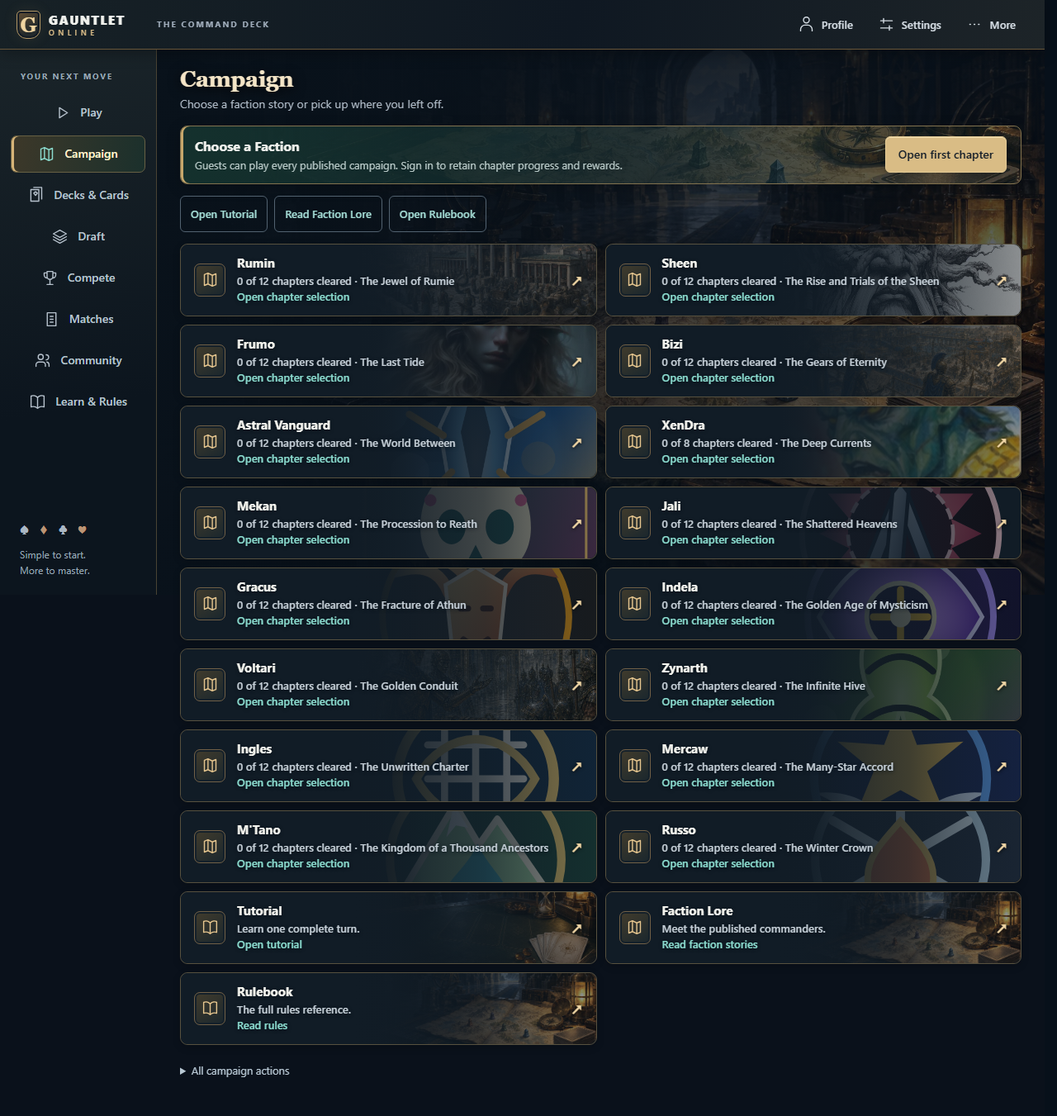
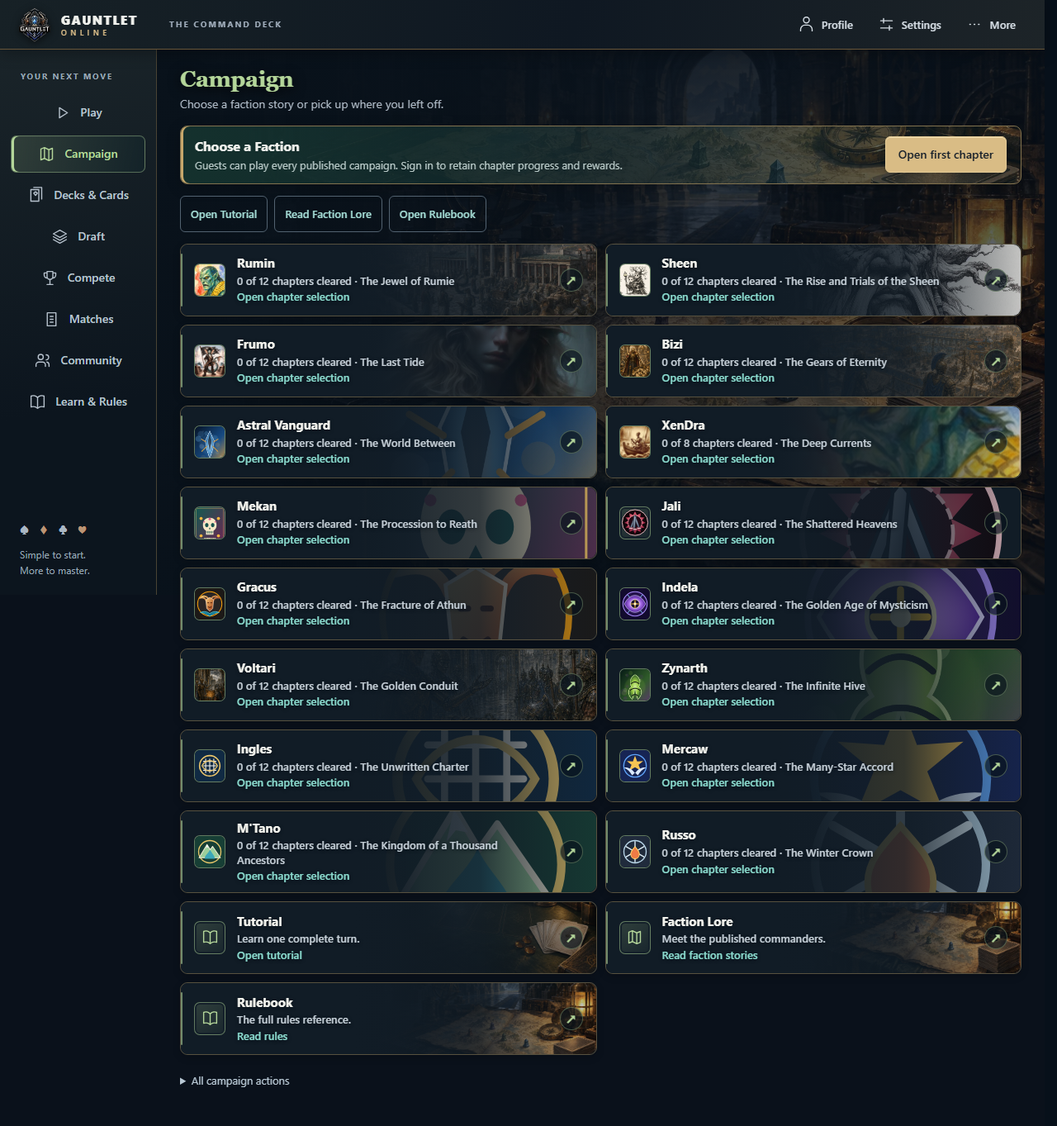
Polish Command Deck branding and contextual player artwork

diff --git a/client/src/navigation/PlayerShell.css b/client/src/navigation/PlayerShell.css
@@ -9,6 +9,8 @@
   --cd-muted: #afbac6;
   --cd-gold: #dec08b;
   --cd-teal: #8cddd0;
+  --cd-accent: #e3c28a;
+  --cd-accent-rgb: 227, 194, 138;
   min-height: 100vh;
   min-height: 100dvh;
   color: var(--cd-text);
@@ -17,6 +19,13 @@
   font-size: 15px;
   line-height: 1.45;
 }
+.cd-shell[data-destination="campaign"], .cd-action-tile[data-tone="campaign"] { --cd-accent: #b4d69a; --cd-accent-rgb: 180, 214, 154; }
+.cd-shell[data-destination="decks"], .cd-action-tile[data-tone="decks"] { --cd-accent: #9edbcb; --cd-accent-rgb: 158, 219, 203; }
+.cd-shell[data-destination="draft"], .cd-action-tile[data-tone="draft"] { --cd-accent: #c6b5eb; --cd-accent-rgb: 198, 181, 235; }
+.cd-shell[data-destination="compete"], .cd-action-tile[data-tone="compete"] { --cd-accent: #edb395; --cd-accent-rgb: 237, 179, 149; }
+.cd-shell[data-destination="matches"], .cd-action-tile[data-tone="matches"] { --cd-accent: #a3c8e7; --cd-accent-rgb: 163, 200, 231; }
+.cd-shell[data-destination="community"], .cd-action-tile[data-tone="community"] { --cd-accent: #9dd6dc; --cd-accent-rgb: 157, 214, 220; }
+.cd-shell[data-destination="profile"], .cd-action-tile[data-tone="profile"] { --cd-accent: #d1bee8; --cd-accent-rgb: 209, 190, 232; }
 .cd-environment { position: fixed; inset: 60px 0 0 190px; z-index: -1; pointer-events: none; overflow: hidden; background: #0a111b; }
 .cd-environment img { width: 100%; height: 100%; object-fit: cover; object-position: center; opacity: .66; }
 .cd-environment::after { content: ""; position: absolute; inset: 0; background: linear-gradient(90deg, #09121bf2, #09121ba6 48%, #09121b38), linear-gradient(#08111bc9, transparent 55%, #08111b8c); }
@@ -35,7 +44,7 @@
 .cd-topbar { grid-column: 1 / -1; display: flex; align-items: center; gap: 24px; position: sticky; top: 0; z-index: 40; height: 60px; padding: 0 24px 0 20px; background: linear-gradient(100deg, #172126, #0f1822 55%, #1d2428); border-bottom: 1px solid #68563a; box-shadow: 0 3px 20px #0005; }
 .cd-brand { display: flex; align-items: center; gap: 10px; flex-shrink: 0; border: 0; padding: 0; color: var(--cd-text); background: none; font-size: 15px; font-weight: 800; letter-spacing: 1.5px; text-align: left; }
 .cd-brand small { display: block; margin-top: -2px; color: var(--cd-gold); font-size: 9px; font-weight: 600; letter-spacing: 4.5px; }
-.cd-brand-mark { display: grid; place-items: center; width: 29px; height: 34px; border: 1px solid #b49865; border-radius: 5px 5px 12px 12px; color: #f0d5a1; background: linear-gradient(145deg, #665034, #242a2b 65%); box-shadow: inset 0 0 0 2px #121b25, 0 0 18px #c7a1661c; font-family: Georgia, serif; font-size: 25px; letter-spacing: 0; }
+.cd-brand-crest { width: 44px; height: 44px; object-fit: contain; flex-shrink: 0; filter: drop-shadow(0 2px 5px #0008); }
 .cd-topbar-caption { margin-left: 14px; color: #a1aebc; font-size: 10px; font-weight: 700; letter-spacing: 2px; }
 .cd-header-actions { display: flex; align-items: center; justify-content: flex-end; gap: 8px; margin-left: auto; min-width: 0; }
 .cd-header-button { display: inline-flex; align-items: center; justify-content: center; gap: 8px; min-height: 40px; padding: 8px 10px; border: 1px solid transparent; border-radius: 6px; color: #d5dde4; background: transparent; font-size: 13px; }
@@ -47,8 +56,8 @@
 .cd-rail nav { display: grid; gap: 5px; }
 .cd-nav-button { display: flex; align-items: center; gap: 11px; width: 100%; min-height: 45px; padding: 10px 11px; border: 1px solid transparent; border-radius: 7px; color: #b7c2cd; background: transparent; text-align: left; font-size: 14px; font-weight: 550; }
 .cd-nav-button:hover { color: var(--cd-text); background: #1a2733; }
-.cd-nav-button.is-current { border-color: #676044; color: #fff0cc; background: linear-gradient(100deg, #3d3829, #1b302c); box-shadow: inset 3px 0 #d7b478; }
-.cd-nav-button.is-current .cd-icon { color: var(--cd-teal); }
+.cd-nav-button.is-current { border-color: rgba(var(--cd-accent-rgb), .4); color: var(--cd-accent); background: linear-gradient(100deg, rgba(var(--cd-accent-rgb), .17), #142329); box-shadow: inset 3px 0 var(--cd-accent), inset 0 1px #ffffff08; }
+.cd-nav-button.is-current .cd-icon { color: var(--cd-accent); }
 .cd-rail-footer { margin-top: auto; padding: 35px 11px 0; color: #9aa8b5; font-size: 12px; }
 .cd-rail-footer p { margin: 9px 0 0; line-height: 1.6; }
 .cd-rail-suits { color: #aab7c3; font-size: 16px; letter-spacing: 4px; }
@@ -58,29 +67,36 @@
 .cd-page-header { display: flex; align-items: center; justify-content: space-between; gap: 16px; margin: 0 0 18px; }
 .cd-page-header h1 { margin: 0 0 4px; color: #f4e5c7; font-family: Georgia, "Times New Roman", serif; font-size: 27px; font-weight: 600; letter-spacing: -.4px; line-height: 1.2; text-shadow: 0 2px 15px #000; }
 .cd-page-header h1:focus { outline: none; }
+.cd-page-header h1 { color: var(--cd-accent); }
 .cd-page-header p { margin: 0; color: var(--cd-muted); font-size: 14px; }
 .cd-eyebrow { color: var(--cd-gold); font-size: 10px; font-weight: 750; letter-spacing: 1.7px; overflow-wrap: anywhere; }
 .cd-shell .cd-authored-detail { margin: 5px 0 0; color: var(--cd-muted); font-size: 12px; }
 .cd-grid { display: grid; grid-template-columns: repeat(2, minmax(0, 1fr)); gap: 10px; }
 .cd-action-tile { position: relative; isolation: isolate; display: flex; align-items: center; gap: 14px; width: 100%; min-width: 0; min-height: 91px; height: 100%; padding: 13px 16px; border: 1px solid #57513f; border-radius: 9px; background: var(--cd-surface); box-shadow: inset 0 1px #dac18a12, 0 3px 10px #0003; color: var(--cd-text); text-align: left; transition: border-color .15s ease, box-shadow .15s ease; }
-.cd-action-tile:hover:not(:disabled) { border-color: #c8a76c; background: #192c35; box-shadow: inset 0 1px #f5d99b33, 0 4px 18px #0005; }
+.cd-action-tile::before { content: ""; position: absolute; inset: 11px auto 11px 0; width: 2px; background: var(--cd-accent); border-radius: 2px; opacity: .6; pointer-events: none; }
+.cd-action-tile:hover:not(:disabled) { border-color: var(--cd-accent); background: #192c35; box-shadow: inset 0 1px #f5d99b33, 0 4px 18px #0005, 0 0 15px rgba(var(--cd-accent-rgb), .08); }
 .cd-action-art { position: absolute; inset: 0; z-index: -1; overflow: hidden; border-radius: inherit; pointer-events: none; background: #111c26; }
 .cd-action-art img { position: absolute; right: 0; top: 0; height: 100%; width: 58%; object-fit: cover; object-position: center 42%; mask-image: linear-gradient(90deg, transparent, #000 28%); transition: transform .25s ease; }
-.cd-action-art::after { content: ""; position: absolute; inset: 0; background: linear-gradient(90deg, #111c26 25%, #111c26f5 47%, #111c26cc 73%, #111c2673); }
+.cd-action-art::after { content: ""; position: absolute; inset: 0; background: linear-gradient(90deg, #111c26 25%, #111c26f5 47%, #111c26d9 72%, #111c2680 87%, #111c2633); }
 .cd-action-tile:hover .cd-action-art img { transform: scale(1.04); }
 .cd-action-tile.has-artwork .cd-action-copy { text-shadow: 0 1px 4px #071018; }
 .cd-action-tile.has-artwork .cd-action-description { color: #c5cfd7; }
 .cd-action-tile:active:not(:disabled) { background: #203a40; }
-.cd-action-icon { display: grid; place-items: center; flex-shrink: 0; width: 38px; height: 40px; border: 1px solid #716047; border-radius: 7px; background: linear-gradient(145deg, #423c2c, #19262d); box-shadow: inset 0 0 0 2px #14202a; color: #e6c68f; font-size: 20px; }
+.cd-action-icon { display: grid; place-items: center; flex-shrink: 0; width: 38px; height: 40px; border: 1px solid rgba(var(--cd-accent-rgb), .45); border-radius: 7px; background: linear-gradient(145deg, rgba(var(--cd-accent-rgb), .19), #19262d); box-shadow: inset 0 0 0 2px #14202a; color: var(--cd-accent); font-size: 20px; overflow: hidden; }
+.cd-action-icon img { width: 100%; height: 100%; object-fit: cover; object-position: center 30%; }
 .cd-action-copy { display: grid; gap: 2px; min-width: 0; }
 .cd-action-title { color: #f3f3ed; font-size: 15px; font-weight: 650; line-height: 1.3; }
 .cd-action-description { color: #b4c0ca; font-size: 13px; line-height: 1.35; overflow-wrap: anywhere; }
 .cd-action-outcome { color: var(--cd-teal); font-size: 13px; line-height: 1.35; }
-.cd-action-arrow { flex-shrink: 0; margin-left: auto; color: #f1d7a6; font-size: 19px; text-shadow: 0 1px 4px #000; }
+.cd-action-arrow { display: grid; place-items: center; flex-shrink: 0; width: 28px; height: 28px; margin-left: auto; border: 1px solid rgba(var(--cd-accent-rgb), .35); border-radius: 50%; background: #08121ba8; color: var(--cd-accent); font-size: 17px; }
 .cd-context { display: flex; align-items: center; justify-content: space-between; flex-wrap: wrap; gap: 12px; min-height: 70px; margin-bottom: 14px; padding: 12px 17px; border: 1px solid #82724e; border-radius: 9px; background-color: #162a2a; background-image: linear-gradient(90deg, #15332ff5, #10232ae6 55%, #10232a85), var(--cd-scene); background-size: cover; background-position: center 58%; box-shadow: inset 3px 0 #c7a76b, 0 4px 18px #0003; }
 .cd-context h2, .cd-context h3 { margin: 0 0 3px; font-size: 16px; font-weight: 650; }
 .cd-context p { margin: 0; color: #b8c9c7; font-size: 13px; }
 .cd-context > div { min-width: 0; }
+.cd-context.has-context-art { position: relative; isolation: isolate; background: #142729; border-color: rgba(var(--cd-accent-rgb), .6); box-shadow: inset 3px 0 var(--cd-accent), inset 0 1px #ffffff14, 0 4px 18px #0003; }
+.cd-context-art { position: absolute; inset: 0; z-index: -1; border-radius: inherit; overflow: hidden; pointer-events: none; }
+.cd-context-art img { position: absolute; right: 0; width: 62%; height: 100%; object-fit: cover; object-position: 65% 60%; }
+.cd-context-art::after { content: ""; position: absolute; inset: 0; background: linear-gradient(90deg, #15312e 10%, #15312ef5 35%, #102329c7 64%, #10232959); }
 .cd-utilities { display: grid; grid-template-columns: repeat(2, minmax(0, 1fr)); gap: 10px; margin-top: 14px; }
 .cd-panel { min-width: 0; padding: 16px; border: 1px solid var(--cd-border); border-radius: 9px; background: var(--cd-surface); }
 .cd-panel h2, .cd-panel h3 { margin: 0 0 7px; font-size: 16px; }
@@ -96,6 +112,7 @@
 .cd-button-primary { background: #d9bc85; color: #17202a; border-color: #e2c994; }
 .cd-button-primary:hover:not(:disabled) { background: #eed7a9; border-color: #f1dcaf; }
 .cd-button-primary { box-shadow: inset 0 1px #fff3cc88, 0 3px 12px #0003; }
+.cd-panel { border-color: rgba(var(--cd-accent-rgb), .25); box-shadow: inset 0 1px #ffffff09, 0 3px 12px #0002; }
 .cd-button-quiet { border-color: transparent; color: var(--cd-teal); background: none; font-weight: 500; }
 .cd-button-quiet:hover { background: #19302f; }
 .cd-back-link { justify-content: flex-start; padding: 7px 0; margin-bottom: 13px; border: 0; color: var(--cd-teal); background: none; }
@@ -192,7 +209,7 @@
   .cd-shell *, .cd-shell *::before, .cd-shell *::after { animation: none; transition: none; scroll-behavior: auto; }
 }
 @media (forced-colors: active) {
-  .cd-environment, .cd-action-art { display: none; }
+  .cd-environment, .cd-action-art, .cd-context-art, .cd-action-tile::before { display: none; }
   .cd-context { background-image: none; }
   .cd-nav-button.is-current { outline: 2px solid Highlight; outline-offset: -3px; }
 }

diff --git a/client/src/navigation/PlayerMenus.jsx b/client/src/navigation/PlayerMenus.jsx
@@ -5,6 +5,9 @@ import SetupFrame from "./SetupFrame";
 import { LayoutGrid, PageLayoutSettings, usePlayerLayout } from "./PlayerLayoutStudio";
 import { getDestination } from "./destinations";
 import { getModePresentation } from "./modePresentation";
+import { resolveVisualAsset } from "../GauntletVisuals";
+import { getDeckFeaturedArt } from "../contentArt";
+import { JOURNEY_ART, MENU_SCENES, STANDARD_DECK_ART, TUTORIAL_ART } from "./menuArtwork";
 import "./PlayerMenus.css";
 
 function ActionDirectory({ title, items }) {
@@ -112,6 +115,12 @@ export default function PlayerMenus({ route, onNavigate, account, ownerAuthorize
   const customizable = !focused;
   const nav = (destination, nextView = "") => onNavigate(destination, nextView);
   const profile = () => nav("profile");
+  const continuingCampaign = !state.hasSavedRoom && !actions.roomCode && state.completedChapters > 0 && state.nextCampaign;
+  const nextActionArt = state.hasSavedRoom ? MENU_SCENES.play : actions.roomCode ? MENU_SCENES.matches
+    : continuingCampaign ? state.nextCampaign.chapter.image || state.nextCampaign.campaign?.coverImage || JOURNEY_ART : TUTORIAL_ART;
+  const deckCards = getDeckFeaturedArt(state.deck, account?.collection?.collectorCatalog || []);
+  const deckFaction = content.factions?.find((faction) => faction.id === state.deck?.factionId);
+  const deckArt = deckCards.length ? deckCards : deckFaction?.cardImage ? [deckFaction.cardImage] : STANDARD_DECK_ART;
   const draftPresentation = getModePresentation("draft", content.modeMetadata, getDestination("draft"));
   const action = (id, title, description, outcome, onClick, icon) => ({ id, title, description, outcome, onClick, icon });
   const playItems = [
@@ -132,14 +141,14 @@ export default function PlayerMenus({ route, onNavigate, account, ownerAuthorize
   </SetupFrame>;
   else if (page === "play" && view === "practice") body = <SetupFrame {...getModePresentation("practice", content.modeMetadata, { title: "Practice", description: "Start with core rules, or choose a faction in the AI lobby." })} onBack={() => nav("play")}><div className="cd-grid">{playItems.slice(0, 2).map((item) => <ActionTile key={item.id} {...item} />)}</div></SetupFrame>;
   else if (page === "play") body = <>
-    <section className="cd-context" aria-label="Suggested next action"><div><span className="cd-eyebrow">{state.hasSavedRoom ? "Your table is waiting" : actions.roomCode ? "Table invitation" : state.completedChapters > 0 && state.nextCampaign ? "Continue your story" : "Ready when you are"}</span>
+    <section className="cd-context has-context-art" aria-label="Suggested next action"><span className="cd-context-art" aria-hidden="true"><img src={resolveVisualAsset(nextActionArt)} alt="" decoding="async" draggable={false} /></span><div><span className="cd-eyebrow">{state.hasSavedRoom ? "Your table is waiting" : actions.roomCode ? "Table invitation" : state.completedChapters > 0 && state.nextCampaign ? "Continue your story" : "Ready when you are"}</span>
       <h2>{state.hasSavedRoom ? `Resume room ${state.savedRoomCode}` : actions.roomCode ? `Invitation to ${actions.roomCode}` : state.completedChapters > 0 && state.nextCampaign ? state.nextCampaign.chapter.title : "Your first match is one click away."}</h2>
       <p>{state.hasSavedRoom ? "Return to your saved player seat or spectator view." : actions.roomCode ? "Choose to join as a player or watch the table." : state.completedChapters > 0 && state.nextCampaign ? "Open your next chapter and its briefing." : "A standard 52-card deck. Learn the core game against AI."}</p></div>
       <button className="cd-button-primary" onClick={state.hasSavedRoom ? actions.resume : actions.roomCode ? () => nav("play", "tables") : state.completedChapters > 0 && state.nextCampaign ? () => actions.campaign(state.nextCampaign.factionId, state.nextCampaign.chapter.id) : actions.basicAi}>{state.hasSavedRoom ? "Resume Match" : actions.roomCode ? "Open Invitation" : state.completedChapters > 0 && state.nextCampaign ? "Continue Campaign" : "Start Basic vs AI"}</button>
     </section>
     <div className="cd-section-line"><h2>Choose your next game</h2><button type="button" onClick={() => nav("play", "tables")}>Private tables & Free-for-All →</button></div>
     <Tiles pageId="play" items={playItems} utilities={[
-      { id: "active-deck", label: "Active Deck", content: <section className="cd-utility"><div><span>Active deck</span><strong>{state.deck?.name || "Standard 52-card deck"}</strong><small>{state.deck ? `${state.deck.factionName || state.deck.factionId} · Constructed` : "Ready to play. Customization is optional."}</small></div><button onClick={() => actions.collection("decks")}>{state.deck ? "Edit Deck" : "Open Decks"}</button></section> },
+      { id: "active-deck", label: "Active Deck", content: <section className="cd-utility cd-active-deck"><span className="cd-deck-summary"><span className="cd-deck-fan" aria-hidden="true">{deckArt.map((art, index) => <img key={`${art}-${index}`} src={resolveVisualAsset(art)} alt="" loading="lazy" decoding="async" draggable={false} />)}</span><span className="cd-deck-copy"><span>Active deck</span><strong>{state.deck?.name || "Standard 52-card deck"}</strong><small>{state.deck ? `${state.deck.factionName || state.deck.factionId} · Constructed` : "Ready to play. Customization is optional."}</small></span></span><button onClick={() => actions.collection("decks")}>{state.deck ? "Edit Deck" : "Open Decks"}</button></section> },
       { id: "recent-matches", label: "Recent Matches", content: slots.recentMatch || <section className="cd-utility"><div><span>Match records</span><strong>Review your games</strong><small>Results and available replays, including device saves.</small></div><button onClick={() => nav("matches")}>Open Matches</button></section> },
     ]} />
   </>;
@@ -149,7 +158,8 @@ export default function PlayerMenus({ route, onNavigate, account, ownerAuthorize
     const items = Object.entries(content.campaigns || {}).map(([id, campaign]) => {
       const completed = account?.progression?.campaign?.[id] || [];
       const faction = content.factions?.find((entry) => entry.id === id);
-      return { ...action(`faction-${id}`, campaign.factionName || id, `${completed.length} of ${campaign.chapters.length} chapters cleared · ${campaign.commanderName}`, "Open chapter selection", () => actions.campaign(id), "campaign"), artwork: campaign.coverImage || faction?.commander?.image || faction?.cardImage };
+      const emblem = faction?.cardImage || faction?.commander?.image;
+      return { ...action(`faction-${id}`, campaign.factionName || id, `${completed.length} of ${campaign.chapters.length} chapters cleared · ${campaign.commanderName}`, "Open chapter selection", () => actions.campaign(id), emblem ? <img src={resolveVisualAsset(emblem)} alt="" loading="lazy" decoding="async" draggable={false} /> : "campaign"), artwork: campaign.coverImage || faction?.commander?.image || faction?.cardImage };
     });
     items.push(action("tutorial", "Tutorial", "Learn one complete turn.", "Open tutorial", actions.tutorial, "learn"), action("lore", "Faction Lore", "Meet the published commanders.", "Read faction stories", () => nav("campaign", "lore"), "campaign"), action("rulebook", "Rulebook", "The full rules reference.", "Read rules", () => nav("learn", "rulebook"), "learn"));
     body = <><section className="cd-context"><div>{campaignPresentation.eyebrow && <span className="cd-eyebrow">{campaignPresentation.eyebrow}</span>}<h2>{campaignPresentation.title}</h2><p>{campaignPresentation.description && <>{campaignPresentation.description} </>}{account ? `${state.completedChapters} chapters cleared. Progress and earned packs stay with your account.` : "Guests can play every published campaign. Sign in to retain chapter progress and rewards."}</p>{campaignPresentation.detail && <p className="cd-authored-detail">{campaignPresentation.detail}</p>}</div>{state.nextCampaign && <button className="cd-button-primary" onClick={() => actions.campaign(state.nextCampaign.factionId, state.nextCampaign.chapter.id)}>{state.completedChapters ? "Continue next chapter" : "Open first chapter"}</button>}</section>

diff --git a/client/src/navigation/ActionTile.jsx b/client/src/navigation/ActionTile.jsx
@@ -1,19 +1,20 @@
 import React from "react";
 import { DestinationIcon } from "./PlayerShell";
 import { resolveVisualAsset } from "../GauntletVisuals";
-import { ACTION_ART } from "./menuArtwork";
+import { ACTION_ART, ACTION_ART_POSITIONS } from "./menuArtwork";
 
 /** The outcome stays visible: players should know what the button does before clicking. */
-export default function ActionTile({ id, title, description, outcome, onClick, disabled = false, icon, artwork = ACTION_ART[id], className = "" }) {
+export default function ActionTile({ id, title, description, outcome, onClick, disabled = false, icon, artwork = ACTION_ART[id], tone = typeof icon === "string" ? icon : "campaign", className = "" }) {
   return (
     <button
       type="button"
       className={`cd-action-tile${artwork ? " has-artwork" : ""} ${className}`.trim()}
       data-action-id={id}
+      data-tone={tone}
       onClick={onClick}
       disabled={disabled}
     >
-      {artwork && <span className="cd-action-art" aria-hidden="true"><img src={resolveVisualAsset(artwork)} alt="" loading="lazy" decoding="async" draggable={false} /></span>}
+      {artwork && <span className="cd-action-art" aria-hidden="true"><img src={resolveVisualAsset(artwork)} style={{ objectPosition: ACTION_ART_POSITIONS[id] }} alt="" loading="lazy" decoding="async" draggable={false} /></span>}
       {icon && <span className="cd-action-icon" aria-hidden="true">{typeof icon === "string" ? <DestinationIcon name={icon} /> : icon}</span>}
       <span className="cd-action-copy">
         <span className="cd-action-title">{title}</span>

diff --git a/client/src/navigation/PlayerShell.jsx b/client/src/navigation/PlayerShell.jsx
@@ -1,7 +1,7 @@
 import React, { useEffect, useId, useRef, useState } from "react";
 import { getDestination, PRIMARY_DESTINATIONS, MOBILE_DESTINATIONS, MORE_DESTINATIONS } from "./destinations";
 import { resolveVisualAsset } from "../GauntletVisuals";
-import { MENU_SCENES } from "./menuArtwork";
+import { GAUNTLET_CREST, MENU_SCENES } from "./menuArtwork";
 import "./PlayerShell.css";
 
 const ICON_PATHS = {
@@ -134,7 +134,7 @@ export default function PlayerShell({ destination = "play", navigationKey = dest
       <div className="cd-shell-surface" inert={moreOpen ? true : undefined} aria-hidden={moreOpen ? true : undefined}>
         <a className="cd-skip-link" href={`#${mainId}`}>Skip to page content</a>
         <header className="cd-topbar">
-          <button className="cd-brand" type="button" onClick={() => onNavigate("play")} aria-label="Gauntlet Online — open Play"><span className="cd-brand-mark" aria-hidden="true">G</span><span>GAUNTLET <small>ONLINE</small></span></button>
+          <button className="cd-brand" type="button" onClick={() => onNavigate("play")} aria-label="Gauntlet Online — open Play"><img className="cd-brand-crest" src={resolveVisualAsset(GAUNTLET_CREST)} alt="" width="44" height="44" decoding="async" draggable={false} /><span>GAUNTLET <small>ONLINE</small></span></button>
           <span className="cd-topbar-caption">THE COMMAND DECK</span>
           <div className="cd-header-actions">
             {editing && <button type="button" className="cd-button cd-button-primary cd-done-editing" onClick={onDoneEditing}>Done Editing</button>}

diff --git a/client/src/navigation/PlayerMenus.css b/client/src/navigation/PlayerMenus.css
@@ -10,6 +10,14 @@
 .cd-utility span,.cd-utility small { font-size: 13px; color: #bccbd5; }
 .cd-utility strong { font-size: 14px; }
 .cd-utility button { flex-shrink: 0; font-size: 13px; }
+.cd-deck-summary { display: flex; align-items: center; gap: 15px; min-width: 0; }
+.cd-deck-copy { display: grid; gap: 3px; min-width: 0; }
+.cd-deck-copy strong { color: var(--cd-text); }
+.cd-deck-fan { position: relative; display: block; width: 62px; height: 54px; flex: 0 0 62px; }
+.cd-deck-fan img { position: absolute; left: 13px; top: 0; width: 38px; height: 54px; border: 1px solid #b19a6b; border-radius: 4px; object-fit: cover; box-shadow: 0 2px 6px #0009; }
+.cd-deck-fan img:nth-child(1):not(:only-child) { transform: translateX(-9px) rotate(-12deg); }
+.cd-deck-fan img:nth-child(3) { transform: translateX(9px) rotate(12deg); }
+.cd-active-deck { background: linear-gradient(120deg, #1c302f, #131f2a 75%); border-color: #49615a; }
 .cd-setup-columns { display: grid; grid-template-columns: minmax(0,2fr) minmax(220px,1fr); align-items: start; gap: 16px; }
 .cd-form-grid { display: grid; grid-template-columns: repeat(2,minmax(0,1fr)); gap: 14px; align-items: end; }
 .cd-form-grid label,.cd-join { display: grid; gap: 8px; }
@@ -57,6 +65,7 @@
   .cd-utility { padding: 10px; flex-wrap: wrap; }
 }
 @media(max-width: 600px) {
+  .cd-deck-summary { flex-wrap: wrap; gap: 10px; }
   .cd-profile-top,.cd-form-grid,.cd-reference-grid { grid-template-columns: 1fr; }
   .cd-section-line { align-items: start; }
   .cd-section-line button { text-align: right; max-width: 155px; }

diff --git a/client/src/navigation/menuArtwork.js b/client/src/navigation/menuArtwork.js
@@ -1,6 +1,15 @@
 // Reuse the shipped menu scenes; artwork never supplies a label or click target.
 export const JOURNEY_ART = "/assets/gauntlet/menus/journey-expedition-v1.webp";
 export const TUTORIAL_ART = "/assets/gauntlet/menus/tutorial-table-v1.webp";
+export const GAUNTLET_CREST = "/assets/gauntlet/gauntlet-logo-transparent.png";
+export const STANDARD_DECK_ART = ["basic-10-spades", "basic-k-diamonds", "basic-10-clubs"].map((card) => `/assets/gauntlet/playing-cards/${card}.webp`);
+
+// Focal points preserve recognizable subjects within the compact tile crops.
+export const ACTION_ART_POSITIONS = {
+  "basic-ai": "76% 67%", "faction-ai": "50% 25%", ranked: "50% 42%",
+  campaign: "72% 60%", tutorial: "76% 67%", lore: "72% 60%",
+  packs: "50% 42%", collection: "50% 28%",
+};
 
 const ARENA = "/assets/gauntlet/backgrounds/gauntlet-menu-play-v1.jpg";
 const WORKSHOP = "/assets/gauntlet/backgrounds/gauntlet-menu-build-v1.jpg";

diff --git a/docs/command-deck-2.1.md b/docs/command-deck-2.1.md
@@ -4,11 +4,13 @@ The player menu hierarchy is replaced by a compact Command Deck. Play is the ord
 
 ## Existing-artwork visual refinement — October 29
 
-The Command Deck now reuses the previous menu's arena, workshop, archive, identity chamber, expedition, and tutorial scenes. Decorative artwork gives each destination a backdrop and illustrates action tiles. Campaign tiles use their published cover image, with the published faction artwork as a fallback. Brass borders, warmer headings, and the selected navigation treatment connect the compact interface to the existing game presentation. No new image assets were generated and no gameplay or navigation behavior changed.
+The Command Deck now reuses the previous menu's arena, workshop, archive, identity chamber, expedition, and tutorial scenes. Decorative artwork gives each destination a backdrop and illustrates action tiles. The existing Gauntlet crest replaces the generic letter badge. Deliberate artwork crops, restrained destination accents, inset panel edges, and framed action arrows connect the compact interface to the existing game presentation. Campaign tiles pair their published covers with faction thumbnails. No new image assets were generated and no gameplay or navigation behavior changed.
 
-The artwork occupies existing space: all eight Play actions still end at 711.47px in a 768px viewport and 692.47px in a 720px viewport. Labels and click outcomes remain visible. Images are decorative, do not intercept clicks or dragging, and disappear in forced-colors mode; motion respects reduced-motion settings. Tile images load lazily, and the existing menu scenes are shared through the browser cache.
+The suggested-action panel uses the tutorial table for a first game, the appropriate room scene for recovery or invitations, and the actual next chapter image when continuing a campaign. The active-deck panel shows up to three selected card printings from the current deck, falling back to published faction artwork or standard playing cards. Existing action priority and account data continue to determine the displayed content.
 
-Validation for this refinement: **63 client tests passed**, plus **4 existing browser scenarios** covering both desktop sizes, 320/390/683/820px reflow, axe accessibility checks, keyboard/native layout editing, resets, guest reload, destinations and browser navigation. The production build and every unchanged bundle budget passed: main **173.4/180 KiB**, player JavaScript **749.1/759 KiB**. Final screenshot capture also verified artwork loading and forced-colors decoration removal. Earlier implementation validation below describes the preceding full qualification run.
+The artwork occupies existing space: all eight Play actions still end at 711.47px in a 768px viewport and 692.47px in a 720px viewport. Labels and click outcomes remain visible. Images are decorative and do not intercept clicks or dragging. Background illustrations disappear in forced-colors mode; motion respects reduced-motion settings. Tile images load lazily, and the existing menu scenes are shared through the browser cache.
+
+Validation for this refinement: **63 client tests passed**, plus **4 existing browser scenarios** covering both desktop sizes, 320/390/683/820px reflow, axe accessibility checks, keyboard/native layout editing, resets, guest reload, destinations and browser navigation. Full-source lint, production compilation, and every unchanged bundle budget passed: main **173.6/180 KiB**, player JavaScript **749.5/759 KiB**. The normal client production configuration and shader pruning ran in an isolated output directory to keep the interactive local preview available. Final screenshot capture also verified artwork loading and forced-colors decoration removal. Earlier implementation validation below describes the preceding full qualification run.
 
 Latest previews: [Play on desktop](reviews/command-deck/artwork-play-desktop.png), [Compete](reviews/command-deck/artwork-compete.png), [Campaign](reviews/command-deck/artwork-campaign.png), and [Play on mobile](reviews/command-deck/artwork-play-mobile.png).
 
